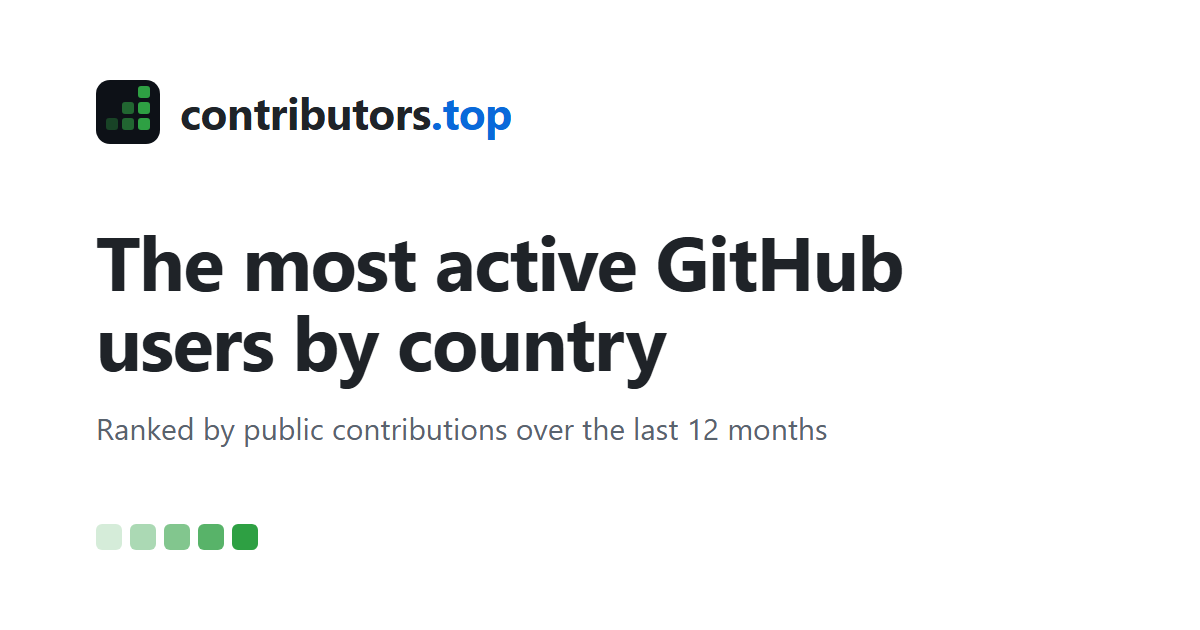
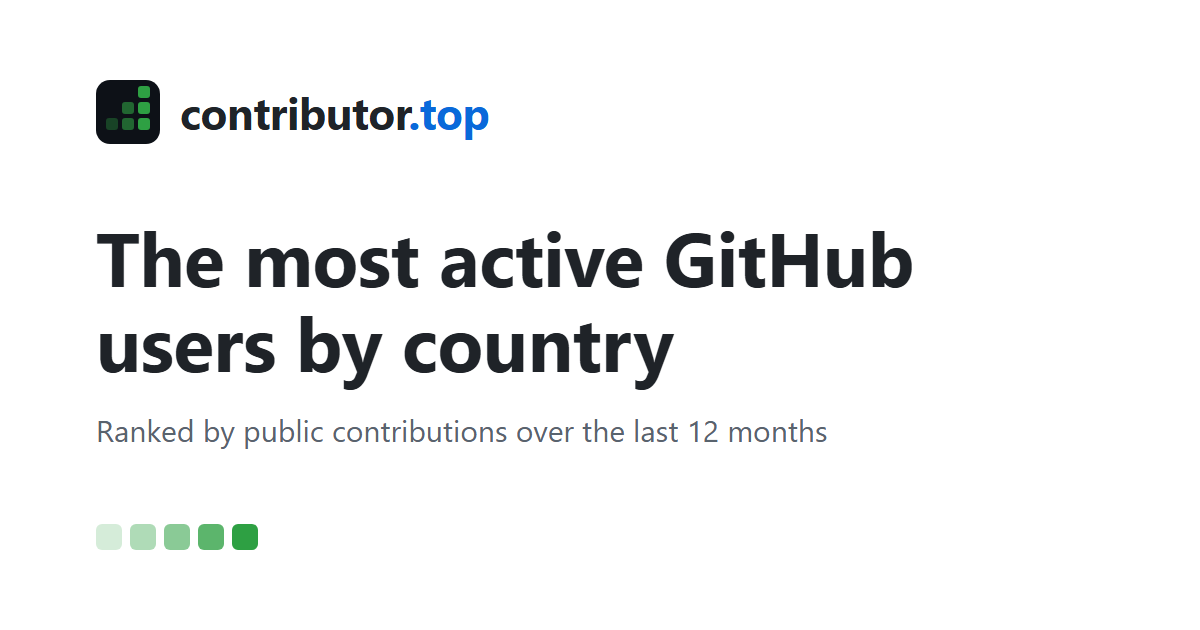
chore: move the site to contributor.top (#57)
Closes #56

## What and why

contributors.top is on client hold at its registrar and cannot be
transferred for weeks; the site moves to contributor.top. DNS already
points to GitHub Pages (A/AAAA, `www` CNAME), the organization's domain
challenge TXT is in place, and SPF/DMARC forbid mail from the domain.

- Every `contributors.top` becomes `contributor.top`: `site` in
`astro.config.mjs` (canonical URLs, OG, JSON-LD, sitemap, API links,
badge snippets), the logo, page titles and texts, manifest, favicon
title, robots.txt, security.txt, the badge label, the collector's
User-Agent, setup-repo's Pages domain, README, CONTRIBUTING, SECURITY,
issue templates.
- `config.yml`: the repository becomes
`contributors-top/contributor.top` (renamed right after this merges;
GitHub redirects the old name). The organization stays
`contributors-top`: the domain challenge and the `www` CNAME are tied to
it.
- Opt-out phrases are now `contributor.top opt-out` / `opt-in`. The old
ones are not kept: the opt-out list is empty, so nobody used them.
- New `og.png`, the same layout with the new name (rendered from HTML at
1200×630).
- The package is `contributor-top` (package.json and the lock file's own
name; no dependency changes).
- Unchanged on purpose: the GitHub App slug
`contributors-top-collector`, and the opt-out list's key derivation
string, which has no domain in it.

**Verified:** `npm run check` (173 tests, build, privacy check); the
[…]

diff --git a/site/test/collector.test.ts b/site/test/collector.test.ts
@@ -100,8 +100,8 @@ function oracle(users: FakeUser[], slug: string, cfg: Config, optedOutIds: Set<n
   const statusSays = (u: FakeUser, phrase: string) => (u.status ?? "").toLowerCase().includes(phrase);
   const kept = matches.filter((u) => {
     if (u.followers < threshold || cfg.denylist_ids.includes(u.id)) return false;
-    if (optedOutIds.has(u.id) && !statusSays(u, "contributors.top opt-in")) return false;
-    if (statusSays(u, "contributors.top opt-out")) return false;
+    if (optedOutIds.has(u.id) && !statusSays(u, "contributor.top opt-in")) return false;
+    if (statusSays(u, "contributor.top opt-out")) return false;
     return owns(slug, u.location as string);
   });
   const order = (score: (u: FakeUser) => number) =>
@@ -265,9 +265,9 @@ describe("collecting a country", () => {
       ...Array.from({ length: 60 }, (_, i) => user(i + 1, i % 3 ? "Atlantis" : "Poseidonia", 5 + i)),
       user(100, "El Dorado / Atlantis", 500), // belongs to El Dorado: mentioned first
       user(101, "Atlantis, then El Dorado", 400), // belongs to Atlantis
-      user(102, "Atlantis", 300, { status: "contributors.top opt-out 🙏" }), // opts out now
+      user(102, "Atlantis", 300, { status: "contributor.top opt-out 🙏" }), // opts out now
       user(103, "Atlantis", 200), // opted out before, silent
-      user(104, "Atlantis", 199, { status: "Contributors.top OPT-IN" }), // opted out before, comes back
+      user(104, "Atlantis", 199, { status: "Contributor.top OPT-IN" }), // opted out before, comes back
       user(105, "Atlantis", 198), // denylisted
       user(106, "Atlantis", 197, { total: 50, restricted: 80 }), // API glitch: never negative
     ];
@@ -356,7 +356,7 @@ describe("collecting a country", () => {
       "Manoa, Atlantis",
       "Nowhere",
     ];
-    const statuses = [null, "contributors.top opt-out", "contributors.top opt-in", "hello"];
+    const statuses = [null, "contributor.top opt-out", "contributor.top opt-in", "hello"];
     const arbUser = fc.record({
       place: fc.constantFrom(...places),
       followers: fc.nat(40),

diff --git a/site/test/optout-privacy.test.ts b/site/test/optout-privacy.test.ts
@@ -101,17 +101,17 @@ describe("people checked by status", () => {
     };
     return { requests, client: new GitHubGraphQL({ token: async () => "t", fetch, clock: fakeClock() }) };
   }
-  const phrases = { optout: "contributors.top opt-out", optin: "contributors.top opt-in" };
+  const phrases = { optout: "contributor.top opt-out", optin: "contributor.top opt-in" };
 
   it("finds opt-outs by status, only for the same account, in batches, with logins as variables", async () => {
     const people = Array.from({ length: 60 }, (_, i) => ({ id: i + 1, login: `user-${i + 1}` }));
     const { requests, client } = github({
-      "user-2": { id: 2, status: "Contributors.top OPT-OUT please" },
+      "user-2": { id: 2, status: "Contributor.top OPT-OUT please" },
       "user-3": { id: 3, status: "busy" },
-      "user-4": { id: 999, status: "contributors.top opt-out" }, // the login now belongs to someone else
+      "user-4": { id: 999, status: "contributor.top opt-out" }, // the login now belongs to someone else
       "user-5": { id: 5, status: null },
-      "user-55": { id: 55, status: "contributors.top opt-out" },
-      "user-56": { id: 56, status: "contributors.top opt-in" },
+      "user-55": { id: 55, status: "contributor.top opt-out" },
+      "user-56": { id: 56, status: "contributor.top opt-in" },
     });
     expect(await optedOutByStatus(client, people, phrases)).toEqual([2, 55]);
     expect(requests.map((r) => Object.keys(r.variables).length)).toEqual([50, 10]);

diff --git a/site/test/collector-parts.test.ts b/site/test/collector-parts.test.ts
@@ -166,7 +166,7 @@ describe("GitHub App token", () => {
       if (url.endsWith("/installation")) return response(json({ id: 42 }));
       if (url.endsWith("/access_tokens")) {
         expect(JSON.parse(init.body ?? "{}")).toEqual({
-          repositories: ["contributors.top"],
+          repositories: ["contributor.top"],
           permissions: { contents: "write", actions: "write" },
         });
         return response(
@@ -188,7 +188,7 @@ describe("GitHub App token", () => {
     const token = installationToken({
       appId: "1",
       privateKey: pem,
-      repo: "contributors-top/contributors.top",
+      repo: "contributors-top/contributor.top",
       fetch,
       clock,
     });
@@ -198,7 +198,7 @@ describe("GitHub App token", () => {
     await clock.sleep(15 * 60_000);
     expect(await token()).toBe("ghs_2"); // 5 minutes left: refreshed
     expect(calls.filter((c) => c.startsWith("POST"))).toHaveLength(2);
-    expect(calls[0]).toBe("GET /repos/contributors-top/contributors.top/installation");
+    expect(calls[0]).toBe("GET /repos/contributors-top/contributor.top/installation");
   });
 
   it("fails loudly when the App is not installed or the key is wrong", async () => {
@@ -218,7 +218,7 @@ describe("GitHub App token", () => {
     const token = installationToken({
       appId: "1",
       privateKey: pem,
-      repo: "contributors-top/contributors.top",
+      repo: "contributors-top/contributor.top",
       fetch: flaky,
       clock,
     });

diff --git a/site/test/adversarial.test.ts b/site/test/adversarial.test.ts
@@ -250,17 +250,17 @@ describe("country assignment", () => {
 });
 
 describe("opt-out phrases", () => {
-  const out = "contributors.top opt-out";
-  const inn = "contributors.top opt-in";
+  const out = "contributor.top opt-out";
+  const inn = "contributor.top opt-in";
 
   it("matches lookalike full-width text and line breaks", () => {
-    expect(statusMatches("ｃｏｎｔｒｉｂｕｔｏｒｓ．ｔｏｐ ｏｐｔ－ｏｕｔ", out)).toBe(true);
-    expect(statusMatches("contributors.top\nopt-out", out)).toBe(true);
+    expect(statusMatches("ｃｏｎｔｒｉｂｕｔｏｒ．ｔｏｐ ｏｐｔ－ｏｕｔ", out)).toBe(true);
+    expect(statusMatches("contributor.top\nopt-out", out)).toBe(true);
   });
 
   it("does not opt out on a different word", () => {
-    expect(decide("contributors.top opt-outlet", out, inn)).toBe("opt-out"); // contains: deliberate, documented
-    expect(decide("contributors.top optout", out, inn)).toBe("none");
+    expect(decide("contributor.top opt-outlet", out, inn)).toBe("opt-out"); // contains: deliberate, documented
+    expect(decide("contributor.top optout", out, inn)).toBe("none");
   });
 });
 

diff --git a/site/src/collector/optout-list.ts b/site/src/collector/optout-list.ts
@@ -2,7 +2,7 @@ import { createCipheriv, createDecipheriv, hkdfSync, randomBytes } from "node:cr
 import { type CountryData, countryDataSchema } from "./country-data.ts";
 
 const HASH = /^[0-9a-f]{64}$/;
-const HEADER = "# HMAC-SHA256 of GitHub user IDs that opted out of contributors.top. Only hashes, no IDs or logins.";
+const HEADER = "# HMAC-SHA256 of GitHub user IDs that opted out of contributor.top. Only hashes, no IDs or logins.";
 
 /** One hash per line; blank lines and # comments are ignored; anything else is an error, not a silent skip. */
 export function parseHashes(text: string): Set<string> {
@@ -34,7 +34,7 @@ const PAD_TO = 256;
 /** Part of the key derivation and the authenticated data: never change it (not even with the domain). */
 const VERSION = "opt-out list v1";
 const LIST_HEADER =
-  "# Encrypted opt-out list of contributors.top (AES-256-GCM): neither who nor how many. Re-encrypted on every run.";
+  "# Encrypted opt-out list of contributor.top (AES-256-GCM): neither who nor how many. Re-encrypted on every run.";
 const NONCE = 12;
 const TAG = 16;
 const HASH_BYTES = 32;

diff --git a/site/src/scripts/setup-repo.ts b/site/src/scripts/setup-repo.ts
@@ -1,7 +1,7 @@
 // Applies repository settings, rulesets, environments and GitHub Pages through the GitHub CLI.
 // Dry run by default; pass --apply to change anything. Run once after the first commit's CI is green,
 // and again after the collector App exists (its ruleset needs the App ID):
-//   npm run setup-repo -- --repo contributors-top/contributors.top --apply
+//   npm run setup-repo -- --repo contributors-top/contributor.top --apply
 import { execFileSync } from "node:child_process";
 import { readdirSync, readFileSync } from "node:fs";
 import { join } from "node:path";
@@ -78,7 +78,7 @@ function attempt(method: string, path: string, body?: unknown): string | undefin
 
 // GitHub Pages is published by .github/workflows/deploy.yml. The domain (same as `site` in astro.config.mjs)
 // is verified at the organization level, so no other account can claim it.
-const DOMAIN = "contributors.top";
+const DOMAIN = "contributor.top";
 if (apply && attempt("GET", `/repos/${repo}/pages`) === undefined) {
   gh("POST", `/repos/${repo}/pages`, { build_type: "workflow" });
 }

diff --git a/site/test/privacy.test.ts b/site/test/privacy.test.ts
@@ -27,11 +27,11 @@ describe("optoutHash", () => {
 });
 
 describe("status phrases", () => {
-  const out = "contributors.top opt-out";
-  const inn = "contributors.top opt-in";
+  const out = "contributor.top opt-out";
+  const inn = "contributor.top opt-in";
 
   it("matches the phrase anywhere, case- and spacing-insensitively", () => {
-    expect(statusMatches("Contributors.top   OPT-OUT please 🙏", out)).toBe(true);
+    expect(statusMatches("Contributor.top   OPT-OUT please 🙏", out)).toBe(true);
     expect(statusMatches("busy", out)).toBe(false);
     expect(statusMatches(null, out)).toBe(false);
     expect(statusMatches(undefined, out)).toBe(false);

diff --git a/site/src/collector/app-token.ts b/site/src/collector/app-token.ts
@@ -30,7 +30,7 @@ const requestInit = (method: string, bearer: string | null, body: unknown) => ({
     ...(bearer === null ? {} : { Authorization: `Bearer ${bearer}` }),
     Accept: "application/vnd.github+json",
     "X-GitHub-Api-Version": "2022-11-28",
-    "User-Agent": "contributors.top-collector",
+    "User-Agent": "contributor.top-collector",
     ...(body === undefined ? {} : { "Content-Type": "application/json" }),
   },
   ...(body === undefined ? {} : { body: JSON.stringify(body) }),

diff --git a/site/src/web/pages/api/world.json.ts b/site/src/web/pages/api/world.json.ts
@@ -3,7 +3,7 @@ import { countryEntries, worldRows } from "../../lib/site.ts";
 
 /** Machine-readable world ranking: merged from every country, public contributions. */
 export const GET: APIRoute = ({ site }) => {
-  const base = (site?.href ?? "https://contributors.top/").replace(/\/$/, "");
+  const base = (site?.href ?? "https://contributor.top/").replace(/\/$/, "");
   const updated = countryEntries
     .map((c) => c.data?.updatedAt)
     .filter((d): d is string => d !== undefined)

diff --git a/site/src/web/pages/api/index.json.ts b/site/src/web/pages/api/index.json.ts
@@ -3,7 +3,7 @@ import { countryEntries } from "../../lib/site.ts";
 
 /** Index of the machine-readable rankings. */
 export const GET: APIRoute = ({ site }) => {
-  const base = (site?.href ?? "https://contributors.top/").replace(/\/$/, "");
+  const base = (site?.href ?? "https://contributor.top/").replace(/\/$/, "");
   return Response.json({
     description: "The most active GitHub users by country. One JSON file per country.",
     terms: `${base}/methodology/#data-access`,

diff --git a/site/src/web/pages/api/[country].json.ts b/site/src/web/pages/api/[country].json.ts
@@ -14,7 +14,7 @@ export const GET: APIRoute<{ entry: CountryEntry }> = ({ props, site }) => {
   const { entry } = props;
   const data = entry.data;
   if (!data) return new Response(null, { status: 404 });
-  const base = (site?.href ?? "https://contributors.top/").replace(/\/$/, "");
+  const base = (site?.href ?? "https://contributor.top/").replace(/\/$/, "");
   return Response.json({
     country: entry.title,
     slug: entry.slug,

diff --git a/site/src/web/pages/sitemap.xml.ts b/site/src/web/pages/sitemap.xml.ts
@@ -2,7 +2,7 @@ import type { APIRoute } from "astro";
 import type { Tab } from "../../collector/rank.ts";
 import { countryEntries, TAB_META } from "../lib/site.ts";
 
-const SITE = "https://contributors.top";
+const SITE = "https://contributor.top";
 
 /** All indexable pages; country pages carry their own update time as lastmod. */
 export const GET: APIRoute = () => {
